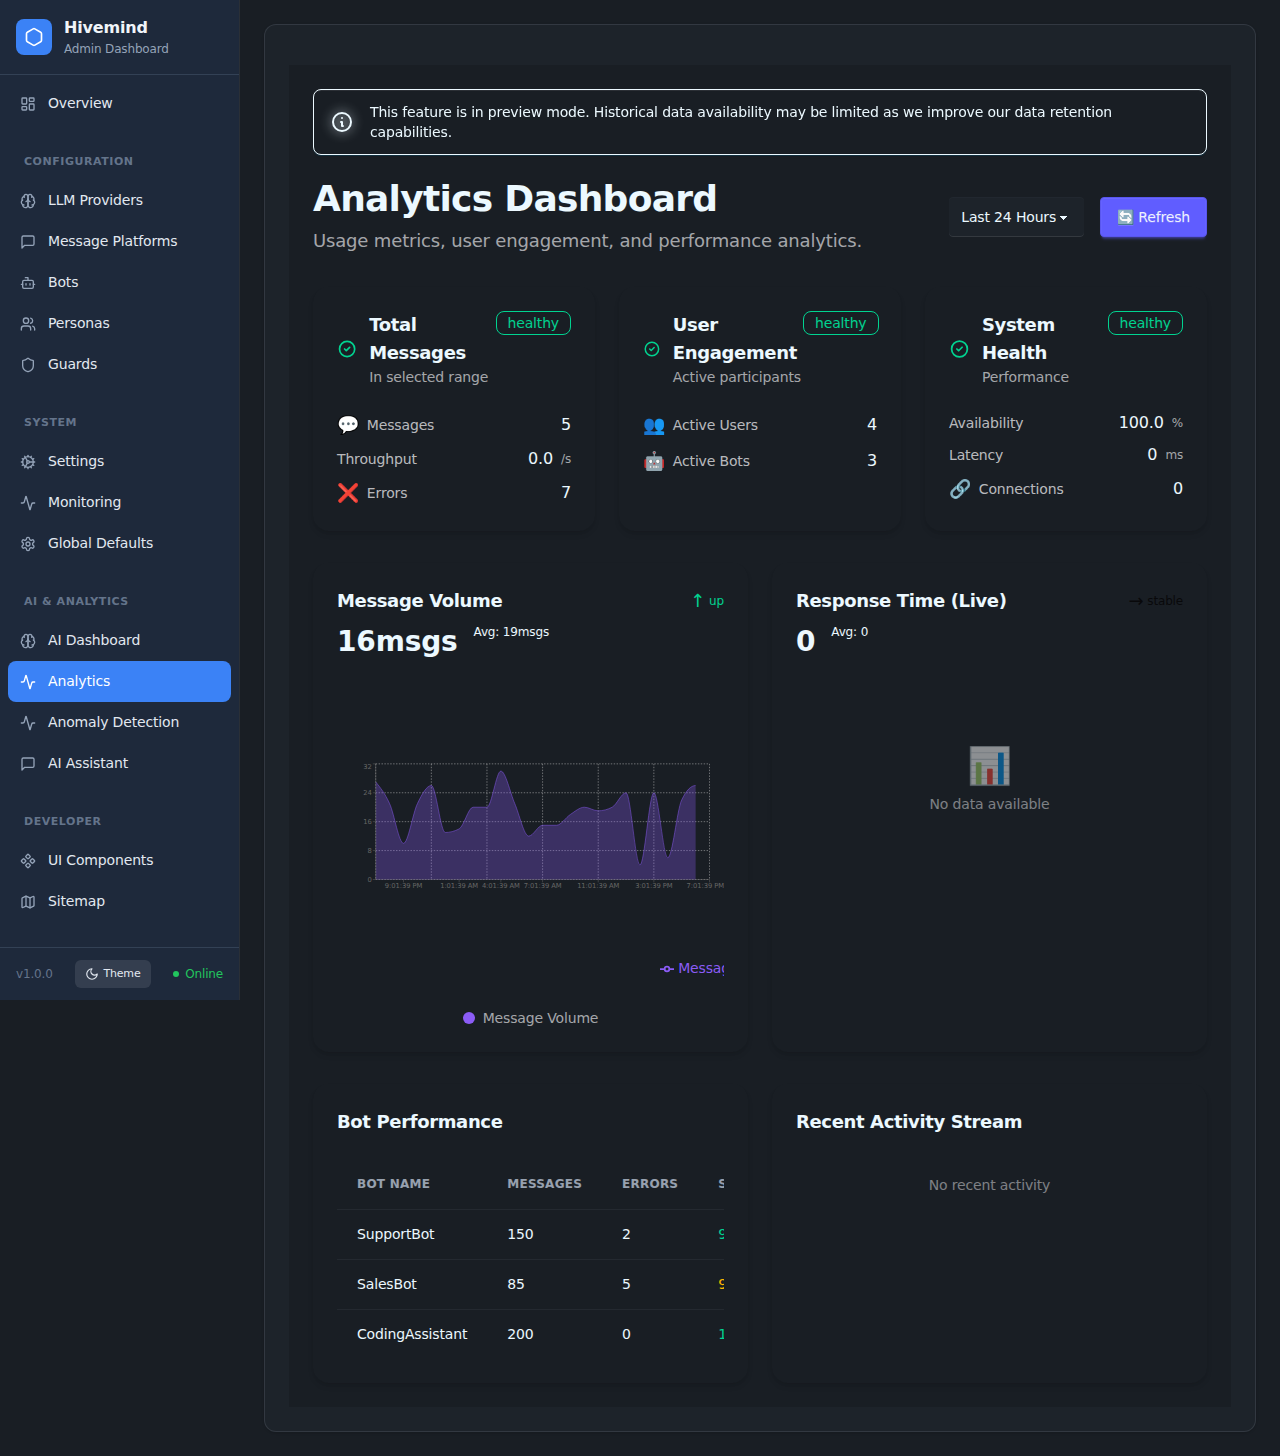
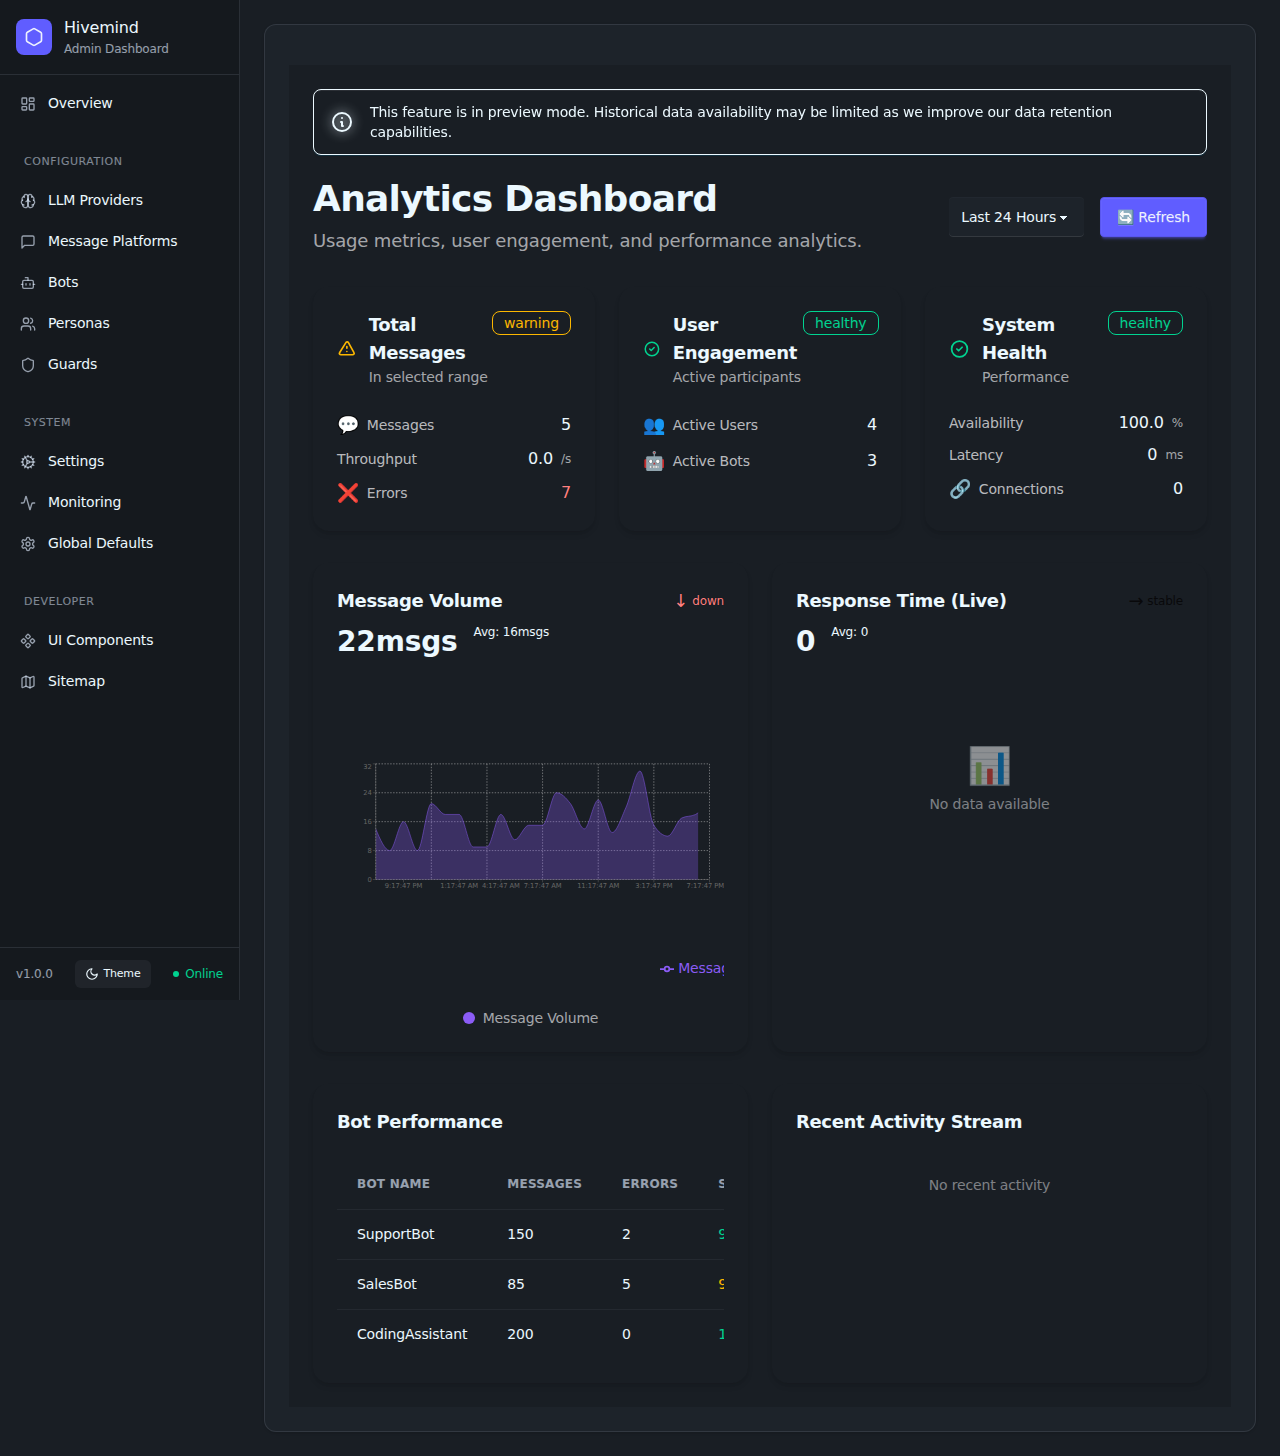
feat(analytics): highlight total messages errors in dashboard (#981)
Dynamically sets the status color for the Total Messages card to warning and the specific errors metric to error if any errors are present to align with the Anomaly Detection UX spec. Evaluates metric.status in the StatusCard component to handle explicit metric status coloring.

diff --git a/src/client/src/pages/AnalyticsDashboard.tsx b/src/client/src/pages/AnalyticsDashboard.tsx
@@ -67,15 +67,17 @@ const AnalyticsDashboard: React.FC = () => {
   })) || [];
 
   // Usage Metrics Cards
+  const totalErrors = activityData?.agentMetrics?.reduce((acc, m) => acc + m.errors, 0) || 0;
+
   const usageMetricsCards = [
     {
       title: 'Total Messages',
       subtitle: 'In selected range',
-      status: 'healthy',
+      status: totalErrors > 0 ? 'warning' : 'healthy',
       metrics: [
         { label: 'Messages', value: events.length.toLocaleString(), icon: '💬' },
         { label: 'Throughput', value: currentMetric.messageRate.toFixed(1), unit: '/s' },
-        { label: 'Errors', value: activityData?.agentMetrics?.reduce((acc, m) => acc + m.errors, 0) || 0, icon: '❌' },
+        { label: 'Errors', value: totalErrors, icon: '❌', status: totalErrors > 0 ? 'error' : undefined },
       ],
     },
     {

diff --git a/src/client/src/components/Monitoring/StatusCard.tsx b/src/client/src/components/Monitoring/StatusCard.tsx
@@ -139,7 +139,7 @@ const StatusCard: React.FC<StatusCardProps> = ({
                 <span className="text-sm text-neutral-content/80">{metric.label}</span>
               </div>
               <div className="flex items-center gap-2">
-                <span className={`font-semibold ${compact ? 'text-base' : 'text-lg'}`}>
+                <span className={`font-semibold ${compact ? 'text-base' : 'text-lg'} ${metric.status ? getStatusColor(metric.status) : ''}`}>
                   {metric.value}
                 </span>
                 {metric.unit && (
